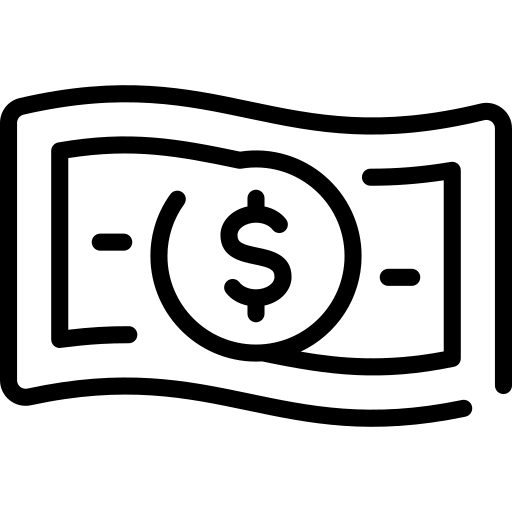
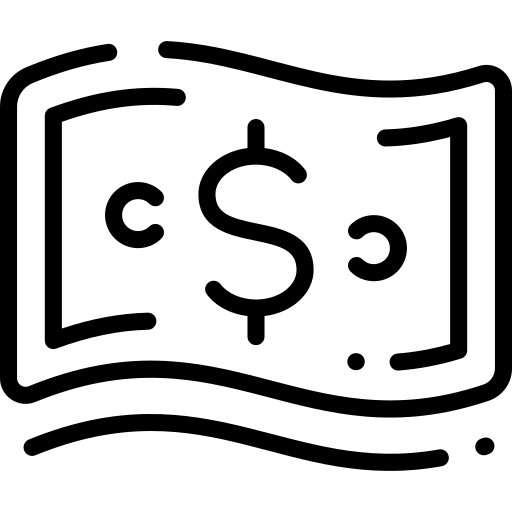
quitando alerts y fetch

Changed region(s): [[0.0, 0.0625, 1.0, 0.9375], [0.9062, 0.8438, 0.9688, 0.9062]]

diff --git a/juegos/memori/memori.js b/juegos/memori/memori.js
@@ -394,8 +394,10 @@ document.addEventListener("DOMContentLoaded", () => {
 
     // ------------------ JUEGO NORMAL ------------------
     function iniciarJuegoNormal() {
-      if (!elementos || elementos.length === 0)
-        return alert(t("memori.noElements"));
+      if (!elementos || elementos.length === 0) {
+        mostrarModalAviso(t("memori.noElements"));
+        return;
+      }
 
       // Limpiar cualquier intervalo de tiempo si existiera
       if (intervaloTiempo) {
@@ -601,7 +603,7 @@ document.addEventListener("DOMContentLoaded", () => {
       }
 
       if (nivelActual >= niveles.length) {
-        alert(t("memori.completedAllLevels"));
+        mostrarModalAviso(t("memori.completedAllLevels"));
         nivelEnCurso = niveles[nivelActual - 1];
         return;
       }
@@ -694,7 +696,7 @@ document.addEventListener("DOMContentLoaded", () => {
         }
 
         if (!elementos || elementos.length < parejasDelNivel) {
-          alert(t("memori.notEnoughElements"));
+          mostrarModalAviso(t("memori.notEnoughElements"));
           return;
         }
 
